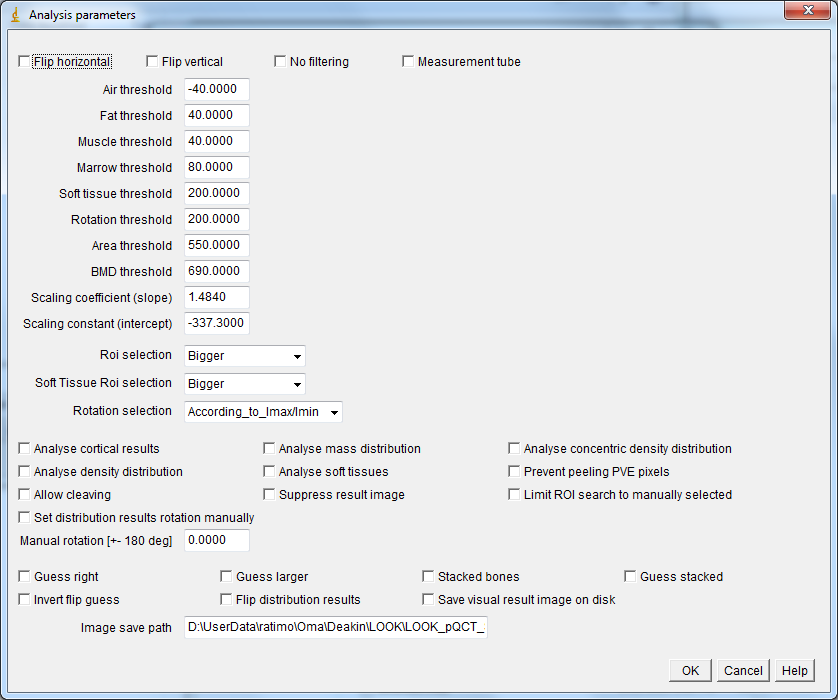
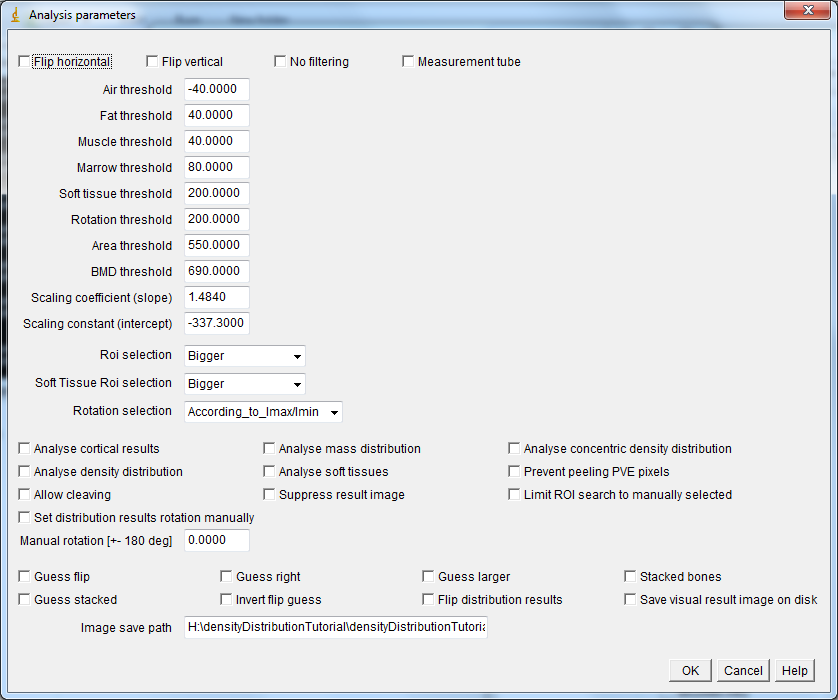
Tutorial for v2 ready

diff --git a/densityDistributionTutorial/index.html b/densityDistributionTutorial/index.html
@@ -16,7 +16,7 @@
 		<ul>
 			<img src="selections.png">	
 			<br><br>
-			<li><b>Topmost tickboxes</b>
+			<li><b>Flipping image prior to analysis, preventing filtering and removing measurement tube from soft tissue analysis</b>
 			<ul>
 				<li><b>Flip horizontal</b> Used to flip the image vertically [sic] (Stratec produces the image rotated by 90 deg from what one might have expected).
 				<li><b>Flip vertical</b> Used to flip the image horizontally [sic] (Stratec produces the image rotated by 90 deg from what one might have expected).
@@ -69,6 +69,7 @@
 			<br>
 			<li><b>Distribution analysis flipping and results visualization</b>
 			<ul>
+			<li><b>Guess flip</b> If ticked, will allow trying to guess whether results need to be flipped.
 			<li><b>Guess right</b> If ticked, will try to guess whether results need to be flipped. If selected bone is closer to image left/upper border (Stacked not ticked or ticked, respectively), the results are not flipped.
 			<li><b>Guess larger</b> If ticked, will try to guess whether results need to be flipped. If larger bone is closer to image left/upper border (Stacked not ticked or ticked, respectively), the results are not flipped.
 			<li><b>Stacked bones</b> Used only if guess right or guess larger is ticked. Stacked means that the bones are expected to be on top of each other in the image (e.g. tibial mid-shaft in Stratec images).
